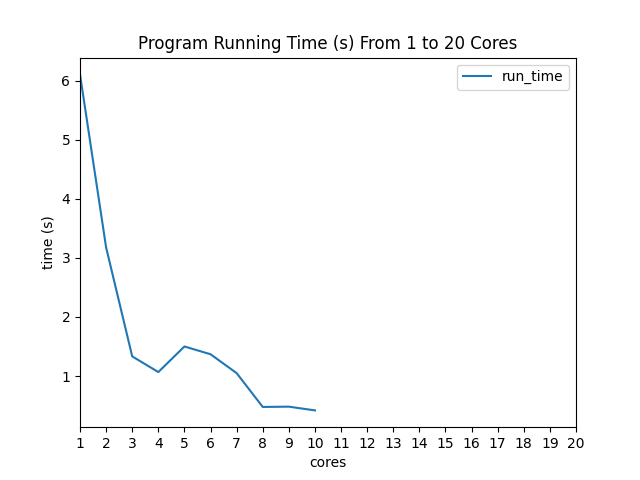
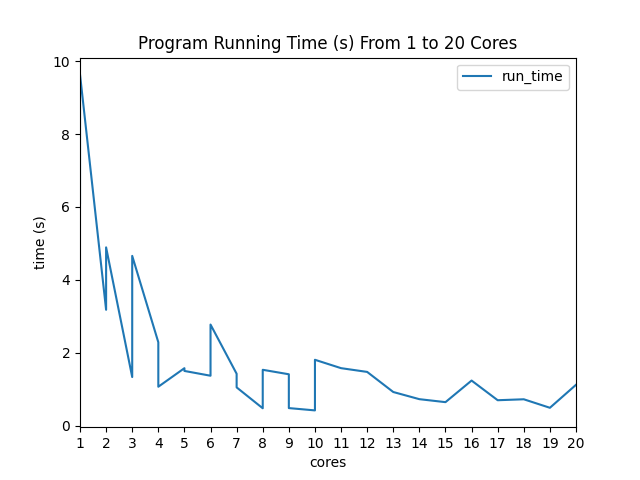
finish task 1

diff --git a/plot.py b/plot.py
@@ -6,7 +6,7 @@ import numpy as np
 
 def plot_csv(csv_filename):
     df = pd.read_csv(csv_filename, names=['cores', 'run_time'])
-
+    df.sort_values(by='cores', inplace=True)
     df.plot(x='cores', y='run_time')
     plt.ylabel('time (s)')
     plt.title('Program Running Time (s) From 1 to 20 Cores')
